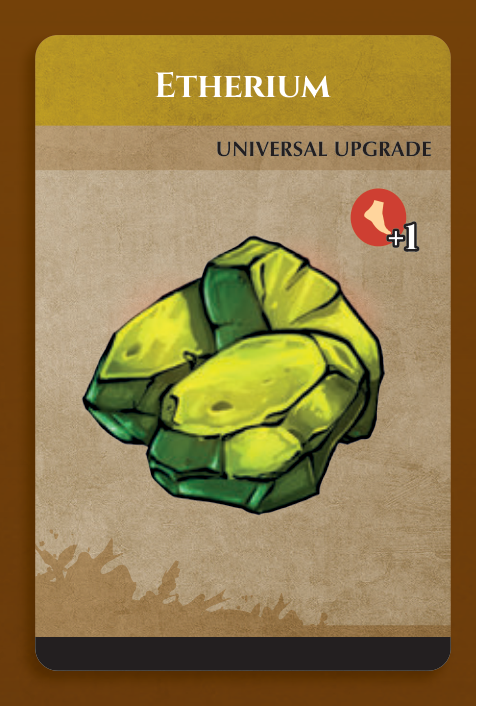
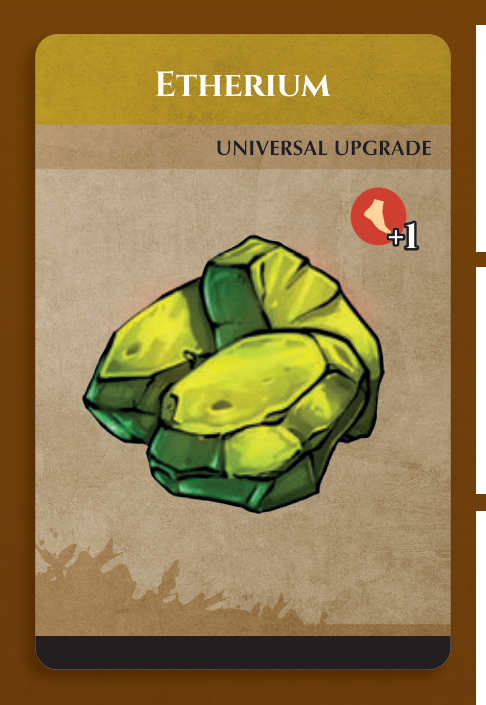
fix: share complete page28 card artwork across languages

diff --git a/scripts/build_page_028_localizable_card_overlays.py b/scripts/build_page_028_localizable_card_overlays.py
@@ -1,9 +1,8 @@
-"""Build language-aware, source-PDF crops for the three item cards on p. 28.
+"""Restore p.28's complete English card artwork in both viewer languages.
 
-English uses the full physical card. The PT-BR variant keeps the same English
-artwork but punches transparent windows around printed text so database
-translations remain visible. Both variants protect the live prose beside the
-Etherium and Master Work cards. This is intentionally page-specific.
+The filename is retained for existing commands. Physical card text stays in
+the PDF artwork; only neighboring live page prose gets transparent windows.
+Source guards and quarter-point bounds keep this repair specific to p.28.
 """
 
 from __future__ import annotations
@@ -21,21 +20,21 @@ PDF_PATH = Path(r"C:\Users\bruno\Downloads\Rulebook 1p2 Final Version 05-19-23 O
 PAGE_DIR = ROOT / "apps/web/public/pages/page_028"
 DOM_PATH = PAGE_DIR / "page_028_dom.json"
 SIDECAR_PATH = PAGE_DIR / "fidelity_overlays.json"
-AUDIT_ID = "2026-10-04-page28-item-card-localizable-v1"
-AUDIT_REPORT = "docs/project-progress/2026-10-04-page28-item-card-text-overlay.md"
+AUDIT_ID = "2026-10-04-page28-shared-artwork-v2"
+AUDIT_REPORT = "docs/project-progress/2026-10-04-page28-shared-artwork-followup.md"
 SOURCE_PAGE_NUMBER = 28
 SCALE = 4.0
-TEXT_WINDOW_PADDING_PT = 0.75
+PROSE_PADDING_PT = 0.25
 
-# Bounds follow the printed card shadows measured from the source PDF. The
-# transparent gutter rectangles keep neighboring page prose live in both
-# language variants; their intersections were checked against p.28 DOM lines.
+# Bounds include printed shadows and align to the 4x raster grid. Windows
+# follow only the exact neighboring prose lines, never the physical card frame.
 TARGETS = [
     {
         "region": "great-hammer",
-        "bbox": [500.0, 122.5, 665.2, 367.8],
+        "bbox": [500.0, 122.5, 665.25, 367.75],
         "shadowBBox": [500.361, 122.873, 664.808, 367.297],
-        "safeWindows": [],
+        "frameBBox": [503.79, 131.211, 657.51, 363.051],
+        "proseLines": [],
         "lineChecks": [
             ("block_45", "line_45_0", "Great Hammer"),
             ("block_100", "line_100_0", "30"),
@@ -52,9 +51,11 @@ TARGETS = [
     },
     {
         "region": "etherium",
-        "bbox": [444.0, 380.2, 565.5, 556.4],
+        "bbox": [444.0, 380.25, 565.5, 556.5],
         "shadowBBox": [444.245, 380.433, 565.231, 556.113],
-        "safeWindows": [[563.0, 380.2, 565.5, 556.4]],
+        "frameBBox": [447.775, 387.746, 557.935, 552.626],
+        "proseLines": [(f"block_{block}", f"line_{block}_{line}")
+                       for block in (8, 9, 10) for line in range(5)],
         "lineChecks": [
             ("block_113", "line_113_0", "Etherium"),
             ("block_114", "line_114_0", "UNIVERSAL UPGRADE"),
@@ -64,9 +65,10 @@ TARGETS = [
     },
     {
         "region": "master-work",
-        "bbox": [617.5, 597.7, 739.1, 774.0],
+        "bbox": [617.5, 597.75, 739.25, 774.0],
         "shadowBBox": [617.875, 597.992, 738.861, 773.672],
-        "safeWindows": [[617.5, 597.7, 633.0, 774.0]],
+        "frameBBox": [621.405, 605.305, 731.565, 770.185],
+        "proseLines": [("block_11", "line_11_0"), ("block_12", "line_12_4")],
         "lineChecks": [
             ("block_120", "line_120_0", "Master Work"),
             ("block_122", "line_122_0", "WEAPON UPGRADE"),
@@ -77,10 +79,48 @@ TARGETS = [
     },
 ]
 
+FLOURISHES = [
+    {"region": "left-white-flourish", "bbox": [438.5, 94.0, 465.25, 116.5],
+     "vectorBBox": [439.37, 94.7248, 464.388, 115.6288]},
+    {"region": "right-white-flourish", "bbox": [698.75, 94.0, 725.25, 116.5],
+     "vectorBBox": [699.488, 94.7248, 724.506, 115.6288]},
+]
+
 
 def bbox_intersection(a: list[float], b: list[float]) -> list[float] | None:
     result = [max(a[0], b[0]), max(a[1], b[1]), min(a[2], b[2]), min(a[3], b[3])]
     return result if result[0] < result[2] and result[1] < result[3] else None
+
+
+def validate_folio(page: pymupdf.Page, data: dict) -> tuple[dict, dict]:
+    """Keep the PDF's gold outline and dark fill as one visible numeral."""
+    block = next(b for b in data["blocks"] if b["id"] == "block_125")
+    spans = []
+    for line_id, color in [("line_125_0", "#fff574"), ("line_125_1", "#231f20")]:
+        line = next(line for line in block["lines"] if line["id"] == line_id)
+        if len(line["spans"]) != 1:
+            raise ValueError(f"Folio span structure changed: {line_id}")
+        span = line["spans"][0]
+        expected = [49.3425, 775.7185, 61.2025, 787.9785]
+        if (span["text"] != "28" or span["font"] != "OptimaLTStd-ExtraBlack"
+                or span["size"] != 10 or span["color"] != color
+                or any(abs(a - b) > 0.005 for a, b in zip(line["bbox"], expected))):
+            raise ValueError(f"Source folio DOM changed: {line_id}")
+        spans.append(span)
+    traces = [t for t in page.get_texttrace() if t["font"] == "OptimaLTStd-ExtraBlack"
+              and "".join(chr(c[0]) for c in t["chars"]) == "28"]
+    if len(traces) != 2:
+        raise ValueError("Expected exactly two p.28 folio paint passes")
+    for role, rgb in [(1, (1.0, 0.9612879, 0.4567483)), (0, (0.1366903, 0.1219501, 0.1252918))]:
+        passes = [t for t in traces if t["type"] == role]
+        if (len(passes) != 1
+                or any(abs(a - b) > 0.0001 for a, b in zip(passes[0]["color"], rgb))
+                or any(abs(a - b) > 0.005 for a, b in
+                       zip(passes[0]["bbox"], [49.3425, 777.49, 61.2025, 787.49]))):
+            raise ValueError(f"Source folio paint changed: role={role}")
+        if role == 1 and passes[0]["linewidth"] != 1.5:
+            raise ValueError("Source folio stroke width changed")
+    return spans[0], spans[1]
 
 
 def validate_targets(page: pymupdf.Page, page_data: dict) -> dict[tuple[str, str], dict]:
@@ -93,6 +133,7 @@ def validate_targets(page: pymupdf.Page, page_data: dict) -> dict[tuple[str, str
             lines[(str(block.get("id")), str(line.get("id")))] = line
 
     image_boxes = [info["bbox"] for info in page.get_image_info(xrefs=True)]
+    drawings = page.get_drawings()
     for target in TARGETS:
         shadow = target["shadowBBox"]
         found = any(
@@ -104,6 +145,20 @@ def validate_targets(page: pymupdf.Page, page_data: dict) -> dict[tuple[str, str
         crop = target["bbox"]
         if not (crop[0] < shadow[0] and crop[1] < shadow[1] and crop[2] > shadow[2] and crop[3] > shadow[3]):
             raise ValueError(f"Crop does not fully contain the source shadow for {target['region']}")
+        if not any(all(abs(a - b) < 0.005 for a, b in zip(d["rect"], target["frameBBox"]))
+                   for d in drawings):
+            raise ValueError(f"Source card frame changed: {target['region']}")
+        target["safeWindows"] = []
+        for key in target["proseLines"]:
+            if key not in lines:
+                raise ValueError(f"Missing neighboring prose line: {key}")
+            line_box = [float(value) for value in lines[key]["bbox"]]
+            padded = [line_box[0] - PROSE_PADDING_PT, line_box[1] - PROSE_PADDING_PT,
+                      line_box[2] + PROSE_PADDING_PT, line_box[3] + PROSE_PADDING_PT]
+            window = bbox_intersection(crop, padded)
+            if window is None or bbox_intersection(window, target["frameBBox"]):
+                raise ValueError(f"Prose window would cut the card frame: {target['region']} {key}")
+            target["safeWindows"].append(window)
 
     expected_keys = set()
     for target in TARGETS:
@@ -155,6 +210,13 @@ def validate_targets(page: pymupdf.Page, page_data: dict) -> dict[tuple[str, str
 
     if len(expected_keys) != 20:
         raise ValueError(f"Expected 20 unique card text lines, found {len(expected_keys)}")
+    for target in FLOURISHES:
+        matches = [d for d in drawings if
+                   all(abs(a - b) < 0.005 for a, b in zip(d["rect"], target["vectorBBox"]))]
+        if len(matches) != 1 or matches[0]["fill"] != (1.0, 1.0, 1.0):
+            raise ValueError(f"White source ornament changed: {target['region']}")
+        if any(bbox_intersection(target["bbox"], line["bbox"]) for line in lines.values()):
+            raise ValueError(f"Ornament crop intersects live text: {target['region']}")
     return lines
 
 
@@ -175,35 +237,25 @@ def pt_rect_to_pixels(
 def create_asset(
     page: pymupdf.Page,
     target: dict,
-    lines: dict[tuple[str, str], dict],
-    language: str,
 ) -> tuple[str, tuple[int, int]]:
     bbox = target["bbox"]
     pix = page.get_pixmap(matrix=pymupdf.Matrix(SCALE, SCALE), clip=pymupdf.Rect(*bbox), alpha=False)
+    actual_bbox = [pix.x / SCALE, pix.y / SCALE,
+                   (pix.x + pix.width) / SCALE, (pix.y + pix.height) / SCALE]
+    if actual_bbox != bbox:
+        raise ValueError(f"Crop must align with the raster grid: {actual_bbox} != {bbox}")
     source = Image.frombytes("RGB", (pix.width, pix.height), pix.samples).convert("RGBA")
     alpha = Image.new("L", source.size, 255)
     draw = ImageDraw.Draw(alpha)
 
-    windows = [list(window) for window in target["safeWindows"]]
-    if language == "pt-BR":
-        for block_id, line_id, _ in target["lineChecks"]:
-            line = lines[(block_id, line_id)]
-            x0, y0, x1, y1 = (float(value) for value in line["bbox"])
-            windows.append([
-                max(bbox[0], x0 - TEXT_WINDOW_PADDING_PT),
-                max(bbox[1], y0 - TEXT_WINDOW_PADDING_PT),
-                min(bbox[2], x1 + TEXT_WINDOW_PADDING_PT),
-                min(bbox[3], y1 + TEXT_WINDOW_PADDING_PT),
-            ])
-
-    for window in windows:
+    for window in target.get("safeWindows", []):
         left, top, right, bottom = pt_rect_to_pixels(window, (pix.x, pix.y), source.size)
         if right > left and bottom > top:
             draw.rectangle((left, top, right - 1, bottom - 1), fill=0)
     source.putalpha(alpha)
 
-    suffix = "en" if language == "en" else "ptbr"
-    asset_name = f"fidelity-overlay-component-page28-{target['region']}-{suffix}.png"
+    suffix = "-en" if "shadowBBox" in target else ""
+    asset_name = f"fidelity-overlay-component-page28-{target['region']}{suffix}.png"
     source.save(PAGE_DIR / asset_name, optimize=True)
     return asset_name, source.size
 
@@ -217,7 +269,8 @@ def main() -> None:
     page_data = json.loads(DOM_PATH.read_text(encoding="utf-8"))
     with pymupdf.open(PDF_PATH) as document:
         page = document[SOURCE_PAGE_NUMBER - 1]
-        lines = validate_targets(page, page_data)
+        validate_targets(page, page_data)
+        stroke, fill = validate_folio(page, page_data)
 
         sidecar = {"overlays": []}
         if SIDECAR_PATH.is_file():
@@ -225,30 +278,38 @@ def main() -> None:
             if not isinstance(sidecar, dict) or not isinstance(sidecar.get("overlays"), list):
                 raise ValueError(f"Invalid overlay sidecar: {SIDECAR_PATH}")
 
-        for target in TARGETS:
-            for language in ("en", "pt-BR"):
-                asset_name, size = create_asset(page, target, lines, language)
-                url = f"/pages/page_028/{asset_name}"
-                sidecar["overlays"] = [item for item in sidecar["overlays"] if item.get("url") != url]
-                sidecar["overlays"].append({
-                    "url": url,
-                    "bbox": target["bbox"],
-                    "widthPx": size[0],
-                    "heightPx": size[1],
-                    "language": language,
-                    "languageInvariant": False,
-                    "auditId": AUDIT_ID,
-                    "category": "item-cards",
-                    "sourcePdfPage": SOURCE_PAGE_NUMBER,
-                    "region": target["region"],
-                    "localizableCardText": True,
-                    "evidenceRef": AUDIT_REPORT,
-                })
-                print(f"{language} {target['region']}: {size[0]}x{size[1]} bbox={target['bbox']}")
+        # Remove only the six variants created by v1, retaining unrelated assets.
+        obsolete_urls = {f"/pages/page_028/fidelity-overlay-component-page28-{t['region']}-{suffix}.png"
+                         for t in TARGETS for suffix in ("en", "ptbr")}
+        sidecar["overlays"] = [item for item in sidecar["overlays"]
+                               if item.get("url") not in obsolete_urls]
+        for target in TARGETS + FLOURISHES:
+            asset_name, size = create_asset(page, target)
+            url = f"/pages/page_028/{asset_name}"
+            sidecar["overlays"] = [item for item in sidecar["overlays"] if item.get("url") != url]
+            sidecar["overlays"].append({
+                "url": url, "bbox": target["bbox"], "widthPx": size[0], "heightPx": size[1],
+                "language": "en", "languageInvariant": True, "auditId": AUDIT_ID,
+                "category": "item-cards" if "shadowBBox" in target else "fixed-artwork",
+                "sourcePdfPage": SOURCE_PAGE_NUMBER, "region": target["region"],
+                "evidenceRef": AUDIT_REPORT,
+            })
+            print(f"EN/PT-BR {target['region']}: {size[0]}x{size[1]} bbox={target['bbox']}")
+
+    stroke.update(renderOnlyStrokePass=True, sourcePaintRole="stroke-only", sourcePaintAuditId=AUDIT_ID)
+    fill.update(renderTextStrokeWidthPt=1.5, renderTextStrokeColor="#fff574",
+                sourcePaintRole="fill-with-source-stroke", sourcePaintAuditId=AUDIT_ID)
+    updated_dom = json.dumps(page_data, ensure_ascii=False, indent=2) + "\n"
+    if DOM_PATH.read_text(encoding="utf-8") != updated_dom:
+        backup = ROOT / "tmp/page28-shared-artwork/page_028_dom-before.json"
+        backup.parent.mkdir(parents=True, exist_ok=True)
+        if not backup.exists():
+            backup.write_bytes(DOM_PATH.read_bytes())
+        DOM_PATH.write_text(updated_dom, encoding="utf-8")
 
     SIDECAR_PATH.write_text(json.dumps(sidecar, ensure_ascii=False, indent=2) + "\n", encoding="utf-8")
-    print(f"Registered {len(TARGETS) * 2} language-specific crops; validated 20 text lines and live-prose windows.")
-    print("The page DOM and translation database were not modified.")
+    print("Registered 5 shared source crops; validated 20 card lines and 17 neighboring prose windows.")
+    print("Only folio paint metadata changed in the DOM; the translation database was not modified.")
 
 
 if __name__ == "__main__":
